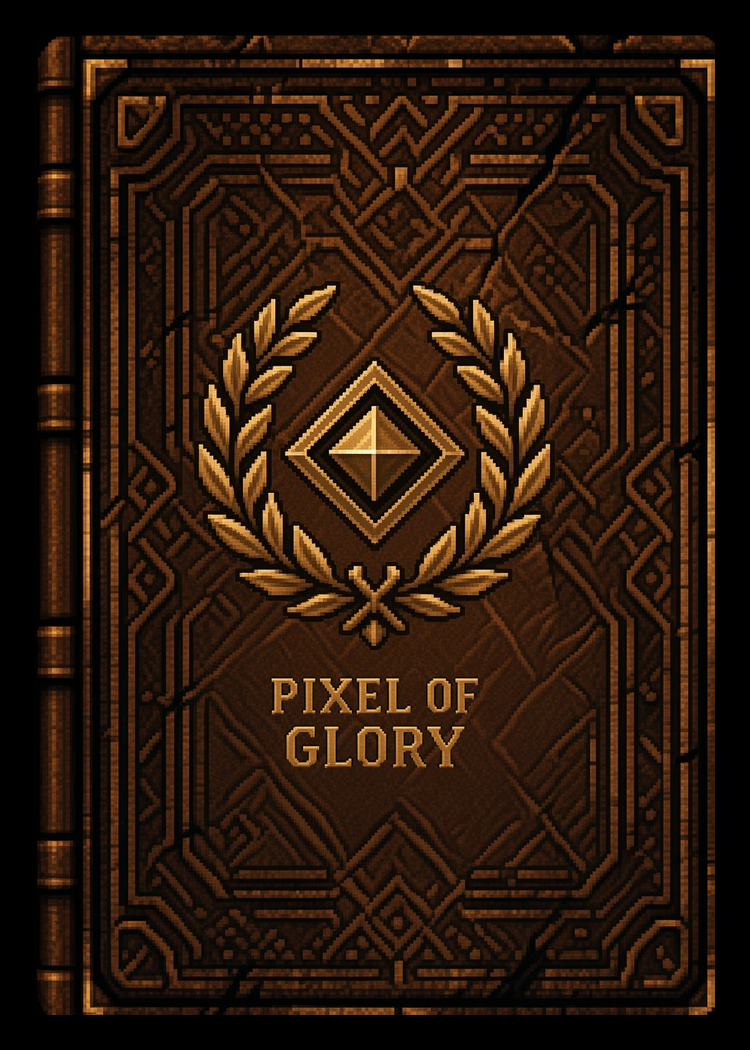
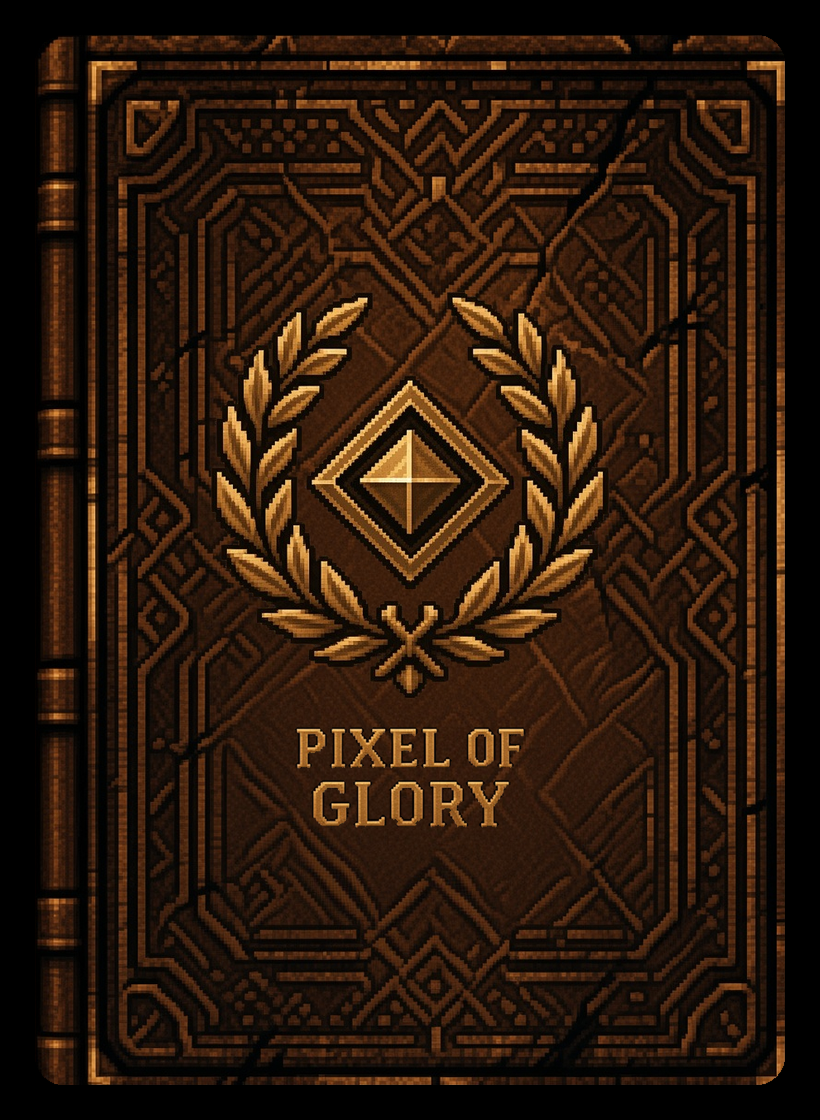
Fond perdu livre en 820×1120 : 3 mm de noir hors de la carte.
La zone utile reste 750×1050 ; les 35 px s’ajoutent de chaque côté.

Changed region(s): [[0.0307, 0.0305, 0.9813, 0.9752], [0.736, 0.6095, 0.7667, 0.64], [0.4907, 0.4876, 0.5213, 0.5181]]

diff --git a/DosCartes/apercu.html b/DosCartes/apercu.html
@@ -24,7 +24,7 @@
     <code>03e</code>, <code>07</code>, <code>09</code>, <code>42</code>) :
     tout ce qui n’est pas le logo est transparent. Fonds cuir plat 180°-symétriques
     (<code>01</code>–<code>05</code>) et fonds <strong>style livre</strong> cuir brun
-    (<code>06</code> ras le livre, <code>06_fondperdu</code> avec 3&nbsp;mm de noir).
+    (<code>06</code> ras 750×1050, <code>06_fondperdu</code> 820×1120 avec 3&nbsp;mm de noir).
     N’importe quel logo se pose sur n’importe quel fond.
   </p>
   <h2>Logos (PNG transparent)</h2>
@@ -45,7 +45,7 @@
 <figure><img src="fonds/05_emeraude.png" alt="Nouveau — émeraude sombre"><figcaption>Nouveau — émeraude sombre<br><code>fonds/05_emeraude.png</code></figcaption></figure></div>
   <h2>Fonds style livre (tranche + cadre géométrique)</h2>
   <div class="grid"><figure><img src="fonds/06_livre_brun.png" alt="Livre — cuir brun, ras le livre"><figcaption>Livre — cuir brun, ras le livre<br><code>fonds/06_livre_brun.png</code></figcaption></figure>
-<figure><img src="fonds/06_livre_brun_fondperdu.png" alt="Livre — cuir brun, fond perdu 3 mm noir"><figcaption>Livre — cuir brun, fond perdu 3 mm noir<br><code>fonds/06_livre_brun_fondperdu.png</code></figcaption></figure></div>
+<figure><img src="fonds/06_livre_brun_fondperdu.png" alt="Livre — cuir brun, fond perdu 820×1120"><figcaption>Livre — cuir brun, fond perdu 820×1120<br><code>fonds/06_livre_brun_fondperdu.png</code></figcaption></figure></div>
   <h2>Exemples logo + fond</h2>
   <div class="grid"><figure><img src="exemples/mix_03_sur_brun.png" alt="mix_03_sur_brun"><figcaption>mix 03 sur brun</figcaption></figure>
 <figure><img src="exemples/mix_laurier_sur_brun.png" alt="mix_laurier_sur_brun"><figcaption>mix laurier sur brun</figcaption></figure>

diff --git a/DosCartes/scripts/separer_logos_fonds.py b/DosCartes/scripts/separer_logos_fonds.py
@@ -354,6 +354,7 @@ def save_logo(rgba: np.ndarray, name: str, cap: str, items: list) -> None:
 
 def paste_logo_on_fond(fond: Image.Image, logo_rgba: np.ndarray, scale: float = 0.72) -> Image.Image:
     card = fond.convert("RGBA")
+    fw, fh = card.size
     logo = Image.fromarray(logo_rgba)
     max_w = int(CARD_W * scale)
     if logo.width > max_w:
@@ -363,10 +364,10 @@ def paste_logo_on_fond(fond: Image.Image, logo_rgba: np.ndarray, scale: float = 
     if logo.height > max_h:
         nw = int(logo.width * max_h / logo.height)
         logo = logo.resize((nw, max_h), Image.Resampling.LANCZOS)
-    x = (CARD_W - logo.width) // 2
-    y = (CARD_H - logo.height) // 2
+    x = (fw - logo.width) // 2
+    y = (fh - logo.height) // 2
     card.alpha_composite(logo.convert("RGBA"), (x, y))
-    bg = Image.new("RGBA", (CARD_W, CARD_H), (0, 0, 0, 255))
+    bg = Image.new("RGBA", (fw, fh), (0, 0, 0, 255))
     return Image.alpha_composite(bg, card).convert("RGB")
 
 
@@ -420,7 +421,7 @@ def write_apercu(logos: list, fonds: list, mixes: list[Path]) -> None:
     <code>03e</code>, <code>07</code>, <code>09</code>, <code>42</code>) :
     tout ce qui n’est pas le logo est transparent. Fonds cuir plat 180°-symétriques
     (<code>01</code>–<code>05</code>) et fonds <strong>style livre</strong> cuir brun
-    (<code>06</code> ras le livre, <code>06_fondperdu</code> avec 3&nbsp;mm de noir).
+    (<code>06</code> ras 750×1050, <code>06_fondperdu</code> 820×1120 avec 3&nbsp;mm de noir).
     N’importe quel logo se pose sur n’importe quel fond.
   </p>
   <h2>Logos (PNG transparent)</h2>
@@ -543,7 +544,7 @@ def main() -> None:
         ("04_obsidienne", "Nouveau — obsidienne, grain cuir"),
         ("05_emeraude", "Nouveau — émeraude sombre"),
         ("06_livre_brun", "Livre — cuir brun, ras le livre"),
-        ("06_livre_brun_fondperdu", "Livre — cuir brun, fond perdu 3 mm noir"),
+        ("06_livre_brun_fondperdu", "Livre — cuir brun, fond perdu 820×1120"),
     ]
     fonds_meta = [(n, c) for n, c in fonds_meta if (FONDS / f"{n}.png").exists()]
     for name, _ in fonds_meta:
@@ -568,7 +569,7 @@ def main() -> None:
 
     livres = {
         "06_livre_brun": (l01, 0.55),
-        "06_livre_brun_fondperdu": (l01, 0.50),
+        "06_livre_brun_fondperdu": (l01, 0.55),
     }
     mix_names = {
         "06_livre_brun": "mix_laurier_sur_livre_brun",
@@ -591,7 +592,8 @@ def main() -> None:
     (OUT / "README.md").write_text(
         """# DosCartes — logos et fonds séparés
 
-Tout logo se pose sur tout fond. PNG 8 bits, fonds 750×1050.
+Tout logo se pose sur tout fond. PNG 8 bits, fonds 750×1050
+(sauf le fond perdu livre : 820×1120).
 
 ## Logos (`logos/`)
 
@@ -621,7 +623,7 @@ Deux familles : cuir plat 180°-symétrique (`01`–`05`) et style livre cuir br
 | `04_obsidienne.png` | nouveau |
 | `05_emeraude.png` | nouveau |
 | `06_livre_brun.png` | grimoire cuir brun, ras le livre |
-| `06_livre_brun_fondperdu.png` | même livre, 3 mm (35 px) de noir de chaque côté |
+| `06_livre_brun_fondperdu.png` | même livre + 3 mm (35 px) de noir de chaque côté, 820×1120 |
 
 Ouvrir `apercu.html` pour tout voir, y compris des exemples logo + fond.
 

diff --git a/DosCartes/scripts/preparer_livre_brun.py b/DosCartes/scripts/preparer_livre_brun.py
@@ -1,8 +1,9 @@
 #!/usr/bin/env python3
-"""Découpe le grimoire cuir brun en deux fonds 750×1050.
+"""Découpe le grimoire cuir brun en deux fonds.
 
-- 06_livre_brun.png            : ras le livre (plus de cadre brun autour)
-- 06_livre_brun_fondperdu.png  : 3 mm de noir de chaque côté (fond perdu)
+- 06_livre_brun.png            : ras le livre, 750×1050
+- 06_livre_brun_fondperdu.png  : même carte + 3 mm de noir de chaque côté
+                                 (820×1120)
 
 Carte poker 63,5 × 88,9 mm → 750×1050 px (~300 dpi) → 3 mm = 35 px.
 Source : scripts/src_livre_brun.jpg
@@ -36,17 +37,13 @@ def main() -> None:
     ras = round_card(book.resize((CARD_W, CARD_H), Image.Resampling.LANCZOS))
     ras.save(FONDS / "06_livre_brun.png", "PNG", optimize=True)
 
-    inner_w = CARD_W - 2 * BLEED_PX
-    inner_h = CARD_H - 2 * BLEED_PX
-    canvas = Image.new("RGB", (CARD_W, CARD_H), (0, 0, 0))
-    canvas.paste(
-        book.resize((inner_w, inner_h), Image.Resampling.LANCZOS),
-        (BLEED_PX, BLEED_PX),
-    )
-    fondperdu = round_card(canvas)
-    fondperdu.save(FONDS / "06_livre_brun_fondperdu.png", "PNG", optimize=True)
+    bleed_w = CARD_W + 2 * BLEED_PX
+    bleed_h = CARD_H + 2 * BLEED_PX
+    canvas = Image.new("RGB", (bleed_w, bleed_h), (0, 0, 0))
+    canvas.paste(ras, (BLEED_PX, BLEED_PX))
+    canvas.save(FONDS / "06_livre_brun_fondperdu.png", "PNG", optimize=True)
     print("livre ras", CARD_W, CARD_H)
-    print("livre fond perdu", BLEED_PX, "px =", BLEED_MM, "mm")
+    print("livre fond perdu", bleed_w, bleed_h, f"({BLEED_PX} px = {BLEED_MM} mm)")
 
 
 if __name__ == "__main__":

diff --git a/DosCartes/README.md b/DosCartes/README.md
@@ -1,6 +1,7 @@
 # DosCartes — logos et fonds séparés
 
-Tout logo se pose sur tout fond. PNG 8 bits, fonds 750×1050.
+Tout logo se pose sur tout fond. PNG 8 bits, fonds 750×1050
+(sauf le fond perdu livre : 820×1120).
 
 ## Logos (`logos/`)
 
@@ -30,7 +31,7 @@ Deux familles : cuir plat 180°-symétrique (`01`–`05`) et style livre cuir br
 | `04_obsidienne.png` | nouveau |
 | `05_emeraude.png` | nouveau |
 | `06_livre_brun.png` | grimoire cuir brun, ras le livre |
-| `06_livre_brun_fondperdu.png` | même livre, 3 mm (35 px) de noir de chaque côté |
+| `06_livre_brun_fondperdu.png` | même livre + 3 mm (35 px) de noir de chaque côté, 820×1120 |
 
 Ouvrir `apercu.html` pour tout voir, y compris des exemples logo + fond.
 
